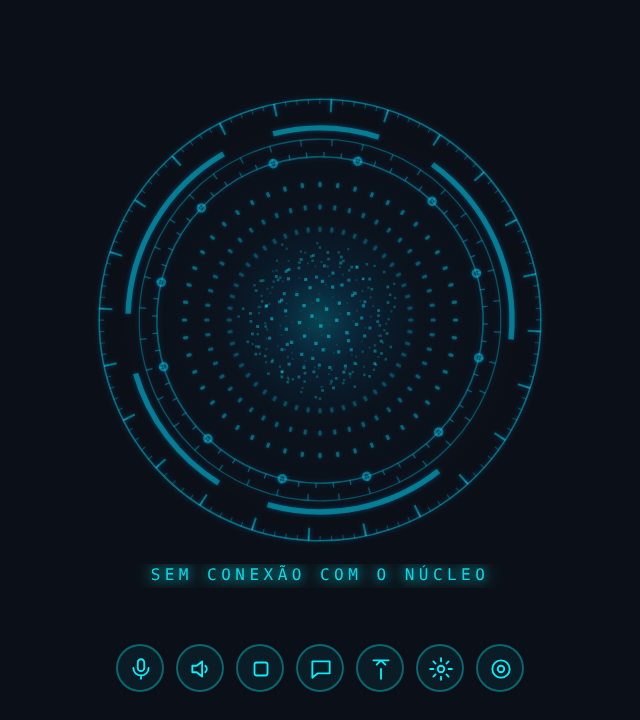
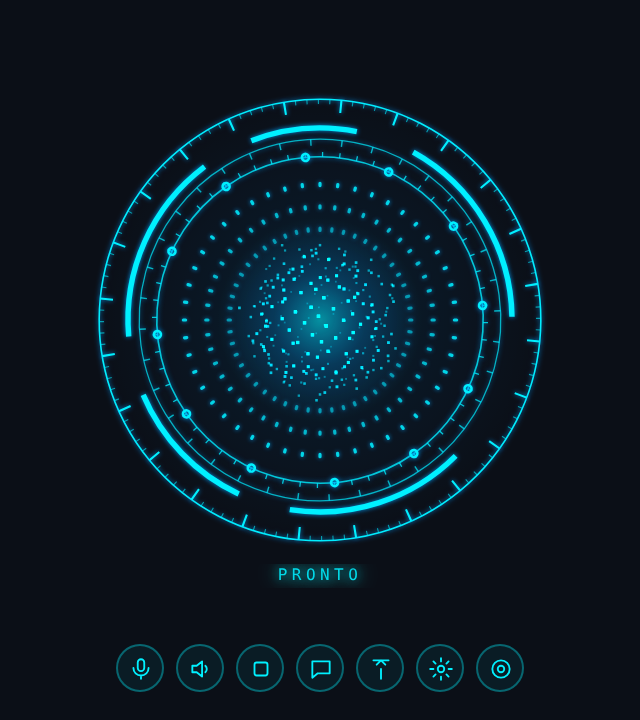
docs(provas): remove caminhos pessoais e simula saúde do núcleo nas capturas

diff --git a/scripts/provas/capturas-visual.py b/scripts/provas/capturas-visual.py
@@ -5,8 +5,8 @@ Executa no navegador Chromium headless via Playwright com mock do ambiente Tauri
 sem necessidade de WebView2 ou Windows.
 
 Uso:
-    PLAYWRIGHT_BROWSERS_PATH=/home/orca/acc/ms-playwright \\
-    /home/orca/acc/venv/bin/python scripts/provas/capturas-visual.py [--url URL] [--saida PASTA]
+    PLAYWRIGHT_BROWSERS_PATH=<diretório de navegadores do Playwright> \\
+    python scripts/provas/capturas-visual.py [--url URL] [--saida PASTA]
 """
 from __future__ import annotations
 
@@ -163,7 +163,7 @@ PAINEIS_CONFIG_FICTICIA: dict[str, Any] = {
             "nome": "Filesystem MCP Server",
             "habilitado": True,
             "command": "npx",
-            "args": ["-y", "@modelcontextprotocol/server-filesystem", "/home/user/projects"],
+            "args": ["-y", "@modelcontextprotocol/server-filesystem", "projetos"],
             "credencial_ref": "",
         },
         {
@@ -326,13 +326,41 @@ def verificar_arquivo_png(caminho: Path) -> None:
         )
 
 
+def configurar_rotas_mock(page: Any) -> None:
+    """Simula as rotas de saúde do OpenJarvis para evitar erros de conexão do proxy."""
+    page.route(
+        "**/oj/health",
+        lambda route: route.fulfill(
+            status=200,
+            content_type="application/json",
+            body=json.dumps({"status": "ok"}),
+        ),
+    )
+    page.route(
+        "**/oj/v1/speech/health",
+        lambda route: route.fulfill(
+            status=200,
+            content_type="application/json",
+            body=json.dumps({"available": True}),
+        ),
+    )
+
+
 def capturar_hud(page: Any, url_base: str, saida_dir: Path) -> None:
     """Captura a tela HUD (index.html) com viewport 320x360 e escala 2x."""
     page.on("pageerror", lambda err: print("[HUD PAGEERROR]:", err))
     page.on("console", lambda m: print(f"[HUD CONSOLE {m.type}]:", m.text) if m.type == "error" else None)
+    configurar_rotas_mock(page)
     page.set_viewport_size({"width": 320, "height": 360})
     page.goto(f"{url_base}/index.html")
     page.wait_for_selector("#nucleo", timeout=10000)
+
+    # Garante transição completa para estado de repouso ("pronto")
+    page.wait_for_function(
+        "() => document.getElementById('dica')?.textContent?.toLowerCase().includes('pronto') || "
+        "document.getElementById('app')?.dataset?.estado === 'repouso'",
+        timeout=5000,
+    )
 
     # Fundo sintético escuro neutro atrás do widget transparente para visualização nítida
     page.evaluate("document.body.style.backgroundColor = '#0b0f17';")
@@ -348,6 +376,7 @@ def capturar_hud(page: Any, url_base: str, saida_dir: Path) -> None:
 
 def capturar_sala(page: Any, url_base: str, saida_dir: Path) -> None:
     """Captura a tela da sala (sala.html) com viewport 1280x800 e escala 1x."""
+    configurar_rotas_mock(page)
     page.set_viewport_size({"width": 1280, "height": 800})
     page.goto(f"{url_base}/sala.html")
     page.wait_for_selector("#nucleo", timeout=10000)
@@ -385,6 +414,7 @@ def capturar_sala(page: Any, url_base: str, saida_dir: Path) -> None:
 
 def capturar_configuracoes(page: Any, url_base: str, saida_dir: Path) -> None:
     """Captura cada aba da tela de configurações (configuracoes.html) com viewport 960x640."""
+    configurar_rotas_mock(page)
     page.set_viewport_size({"width": 960, "height": 640})
     page.goto(f"{url_base}/configuracoes.html")
     page.wait_for_selector("#painel nav button", timeout=10000)

diff --git a/docs/capturas/README.md b/docs/capturas/README.md
@@ -12,8 +12,8 @@ Este diretório contém as capturas de tela das interfaces do Vard (HUD, Sala e 
 As capturas são geradas automaticamente por script Playwright em Python síncrono (`scripts/provas/capturas-visual.py`), executando Chromium headless.
 
 ```bash
-PLAYWRIGHT_BROWSERS_PATH=/home/orca/acc/ms-playwright \
-/home/orca/acc/venv/bin/python scripts/provas/capturas-visual.py
+PLAYWRIGHT_BROWSERS_PATH=<diretório de navegadores do Playwright> \
+python scripts/provas/capturas-visual.py
 ```
 
 ### Argumentos opcionais
